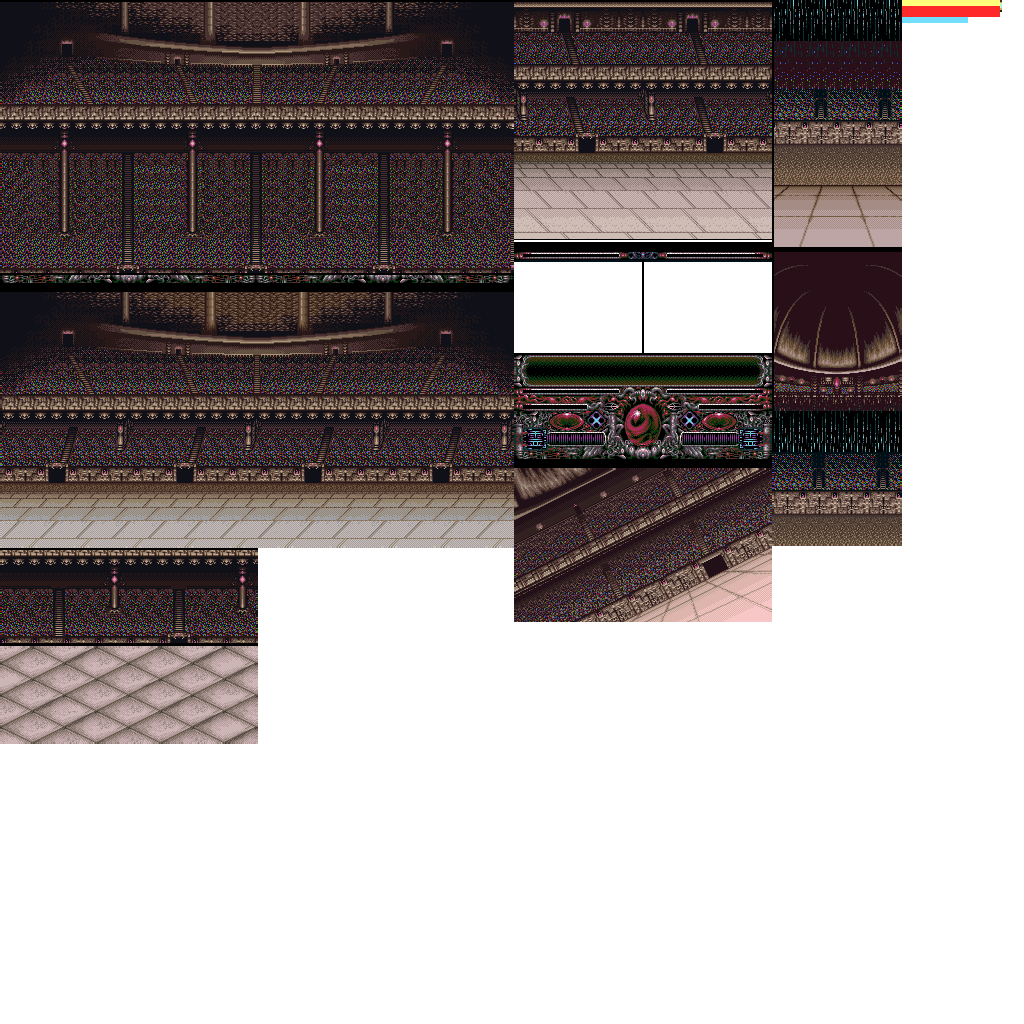
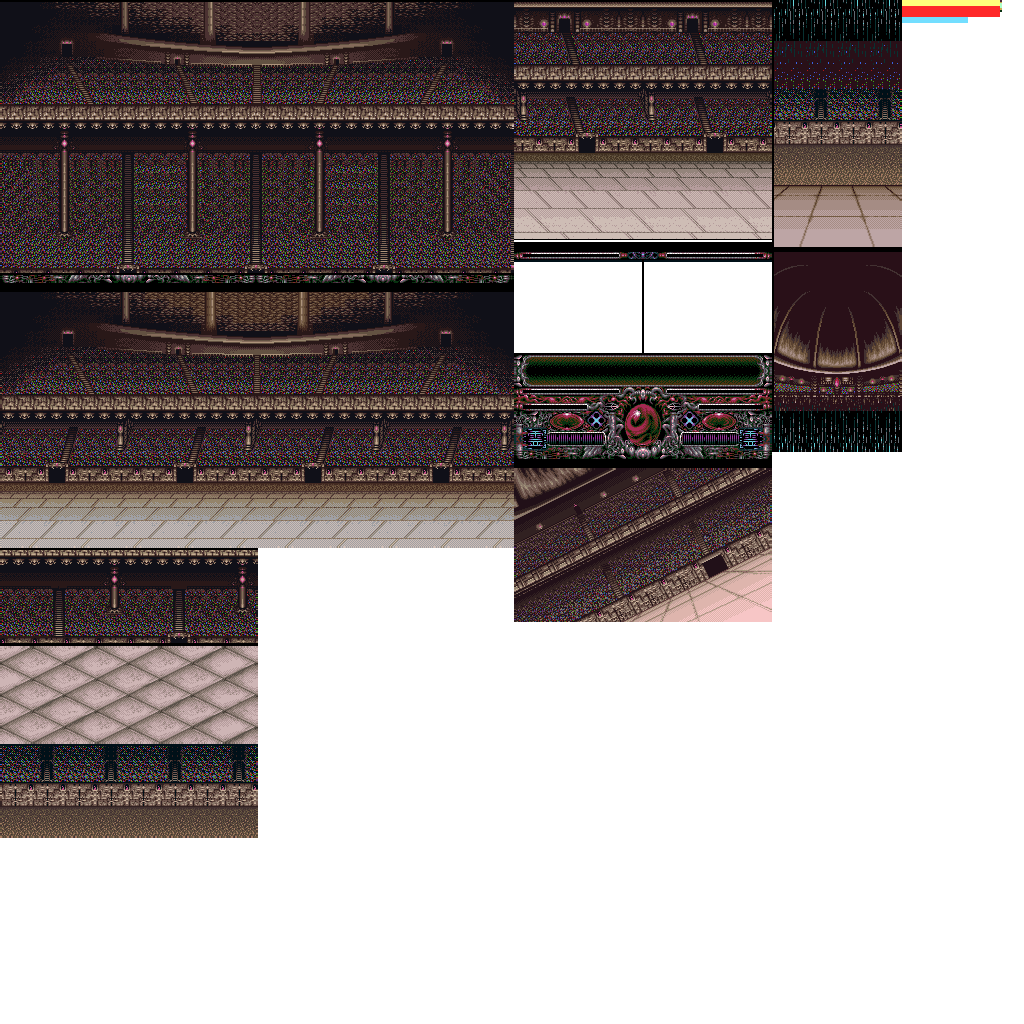
背景のスクロールをUV切り出しで対応

Changed region(s): [[0.0, 0.7188, 0.25, 0.8438], [0.75, 0.4375, 0.9062, 0.5312]]

diff --git a/Assets/GameAssets/Scripts/ECS/ComponentSystem/Render/BGDrawSystem.cs b/Assets/GameAssets/Scripts/ECS/ComponentSystem/Render/BGDrawSystem.cs
@@ -35,19 +35,20 @@ namespace YYHS
             ToukiMeterJob toukiMeterJob = DoToukiMeterJob(ref inputDeps, toukiMeters, toukiMeterMatrixs);
 
             // var bgScrolls = m_group.ToComponentDataArray<BgScroll>(Allocator.TempJob);
-            var bgScrollsMatrixs = new NativeArray<Matrix4x4>(toukiMeters.Length * 2, Allocator.TempJob);
-            BgScrollJob bgScrollJob = DoBgScrollJob(ref inputDeps, toukiMeters, bgScrollsMatrixs);
+            // var bgScrollsMatrixs = new NativeArray<Matrix4x4>(toukiMeters.Length, Allocator.TempJob);
+            // BgScrollJob bgScrollJob = DoBgScrollJob(ref inputDeps, toukiMeters, bgScrollsMatrixs);
 
             // 描画のためCompleteする
             inputDeps.Complete();
 
-            DrawBgScroll(bgScrollJob);
+            DrawBgScroll(toukiMeters);
             DrawFrame();
             DrawToukiMeter(toukiMeterJob);
 
             // NativeArrayの開放
+            toukiMeters.Dispose();
             toukiMeterMatrixs.Dispose();
-            bgScrollsMatrixs.Dispose();
+            // bgScrollsMatrixs.Dispose();
 
             return inputDeps;
         }
@@ -67,29 +68,46 @@ namespace YYHS
             return toukiMeterJob;
         }
 
-        private BgScrollJob DoBgScrollJob(ref JobHandle inputDeps, NativeArray<ToukiMeter> toukiMeters, NativeArray<Matrix4x4> bgScrollMatrixs)
-        {
-            var bgScrollJob = new BgScrollJob()
-            {
-                toukiMeters = toukiMeters,
-                bgScrollMatrixs = bgScrollMatrixs,
-                q = m_quaternion,
-                BgScrollWidth = Define.Instance.DrawPos.BgScrollWidth,
-                BgScrollRangeFactor = Define.Instance.DrawPos.BgScrollRangeFactor,
-                BgScrollX = -(Define.Instance.DrawPos.BgScrollWidth / 2),
-                BgScrollY = Define.Instance.DrawPos.BgScrollY,
-            };
-            inputDeps = bgScrollJob.Schedule(inputDeps);
-            m_group.AddDependency(inputDeps);
-            return bgScrollJob;
-        }
+        // private BgScrollJob DoBgScrollJob(ref JobHandle inputDeps, NativeArray<ToukiMeter> toukiMeters, NativeArray<Matrix4x4> bgScrollMatrixs)
+        // {
+        //     var bgScrollJob = new BgScrollJob()
+        //     {
+        //         toukiMeters = toukiMeters,
+        //         bgScrollMatrixs = bgScrollMatrixs,
+        //         q = m_quaternion,
+        //         BgScrollWidth = Define.Instance.DrawPos.BgScrollWidth,
+        //         BgScrollRangeFactor = Define.Instance.DrawPos.BgScrollRangeFactor,
+        //         BgScrollX = -Define.Instance.DrawPos.BgScrollX,
+        //         BgScrollY = Define.Instance.DrawPos.BgScrollY,
+        //     };
+        //     inputDeps = bgScrollJob.Schedule(inputDeps);
+        //     m_group.AddDependency(inputDeps);
+        //     return bgScrollJob;
+        // }
 
-        private void DrawBgScroll(BgScrollJob bgScrollJob)
+        private void DrawBgScroll(NativeArray<ToukiMeter> toukiMeters)
         {
-            for (int i = 0; i < bgScrollJob.bgScrollMatrixs.Length; i++)
+            for (int i = 0; i < toukiMeters.Length; i++)
             {
-                Graphics.DrawMesh(Shared.bgFrameMeshMat.meshs["bg00"],
-                    bgScrollJob.bgScrollMatrixs[i],
+                Matrix4x4 bgScrollMatrixs = Matrix4x4.TRS(new Vector3(-Define.Instance.DrawPos.BgScrollX,
+                        Define.Instance.DrawPos.BgScrollY, 0),
+                    m_quaternion, new Vector3(0.5f, 1, 1));
+
+                Mesh baseMesh = Shared.bgFrameMeshMat.meshs["bg00"];
+                Mesh mesh = new Mesh()
+                {
+                    vertices = baseMesh.vertices,
+                    uv = new Vector2[]
+                    {
+                    new Vector2(toukiMeters[i].textureUl, baseMesh.uv[0].y),
+                    new Vector2(toukiMeters[i].textureUr, baseMesh.uv[1].y),
+                    new Vector2(toukiMeters[i].textureUl, baseMesh.uv[2].y),
+                    new Vector2(toukiMeters[i].textureUr, baseMesh.uv[3].y),
+                    },
+                    triangles = baseMesh.triangles,
+                };
+                Graphics.DrawMesh(mesh,
+                    bgScrollMatrixs,
                     Shared.bgFrameMeshMat.material, 0);
             }
         }
@@ -139,44 +157,44 @@ namespace YYHS
             }
         }
 
-        [BurstCompileAttribute]
-        struct BgScrollJob : IJob
-        {
-            [ReadOnly]
-            [DeallocateOnJobCompletion]
-            public NativeArray<ToukiMeter> toukiMeters;
-            [ReadOnly]
-            public Quaternion q;
-            [ReadOnly]
-            public int BgScrollWidth;
-            [ReadOnly]
-            public int BgScrollRangeFactor;
-            [ReadOnly]
-            public int BgScrollX;
-            [ReadOnly]
-            public int BgScrollY;
-            public NativeArray<Matrix4x4> bgScrollMatrixs;
+        // [BurstCompileAttribute]
+        // struct BgScrollJob : IJob
+        // {
+        //     [ReadOnly]
+        //     // [DeallocateOnJobCompletion]
+        //     public NativeArray<ToukiMeter> toukiMeters;
+        //     [ReadOnly]
+        //     public Quaternion q;
+        //     [ReadOnly]
+        //     public int BgScrollWidth;
+        //     [ReadOnly]
+        //     public int BgScrollRangeFactor;
+        //     [ReadOnly]
+        //     public int BgScrollX;
+        //     [ReadOnly]
+        //     public int BgScrollY;
+        //     public NativeArray<Matrix4x4> bgScrollMatrixs;
 
-            public void Execute()
-            {
-                for (int i = 0; i < toukiMeters.Length; i++)
-                {
-                    var index = i * 2;
-                    var posX = BgScrollX + (toukiMeters[i].bgScroll >> BgScrollRangeFactor);
-                    var posX2 = (posX - BgScrollWidth);
+        //     public void Execute()
+        //     {
+        //         for (int i = 0; i < toukiMeters.Length; i++)
+        //         {
+        //             // var index = i * 2;
+        //             var posX = BgScrollX + (toukiMeters[i].bgScroll >> BgScrollRangeFactor);
+        //             var posX2 = (posX - BgScrollWidth);
 
-                    Matrix4x4 tmpMatrix = Matrix4x4.TRS(new Vector3(posX, BgScrollY, 0),
-                        q, Vector3.one);
+        //             Matrix4x4 tmpMatrix = Matrix4x4.TRS(new Vector3(posX, BgScrollY, 0),
+        //                 q, Vector3.one);
 
-                    bgScrollMatrixs[index] = tmpMatrix;
+        //             bgScrollMatrixs[i] = tmpMatrix;
 
-                    Matrix4x4 tmpMatrix2 = Matrix4x4.TRS(new Vector3(posX2, BgScrollY, 0),
-                        q, Vector3.one);
+        //             // Matrix4x4 tmpMatrix2 = Matrix4x4.TRS(new Vector3(posX2, BgScrollY, 0),
+        //             //     q, Vector3.one);
 
-                    bgScrollMatrixs[index + 1] = tmpMatrix2;
-                }
-            }
-        }
+        //             // bgScrollMatrixs[index + 1] = tmpMatrix2;
+        //         }
+        //     }
+        // }
 
     }
 }

diff --git a/Assets/GameAssets/Scripts/ECS/ComponentSystem/Count/ToukiMeterCountJobSystem.cs b/Assets/GameAssets/Scripts/ECS/ComponentSystem/Count/ToukiMeterCountJobSystem.cs
@@ -38,11 +38,15 @@ namespace YYHS
 
 		private JobHandle DoCountToukiJob(ref JobHandle inputDeps, NativeArray<ToukiMeter> toukiMeters)
 		{
+			Vector2[] uv = Shared.bgFrameMeshMat.meshs["bg00"].uv;
 			inputDeps = new CountToukiJob()
 			{
 				BgScrollRange = Define.Instance.DrawPos.BgScrollWidth << Define.Instance.DrawPos.BgScrollRangeFactor,
 					toukiMeters = toukiMeters,
+					spriteUl = uv[0].x,
+					spriteUr = uv[1].x,
 			}.Schedule(inputDeps);
+
 			m_group.AddDependency(inputDeps);
 			m_group.CopyFromComponentDataArray(toukiMeters, out JobHandle jobHandle);
 			return jobHandle;
@@ -61,10 +65,16 @@ namespace YYHS
 		{
 			[ReadOnly]
 			public int BgScrollRange;
+			[ReadOnly]
+			public float spriteUl;
+			[ReadOnly]
+			public float spriteUr;
 			public NativeArray<ToukiMeter> toukiMeters;
 
 			public void Execute()
 			{
+				float width = (spriteUr - spriteUl) / 2;
+
 				for (int i = 0; i < toukiMeters.Length; i++)
 				{
 					var toukiMeter = toukiMeters[i];
@@ -98,6 +108,9 @@ namespace YYHS
 							break;
 					}
 
+					float u = (float)toukiMeter.bgScroll / (float)BgScrollRange;
+					toukiMeter.textureUl = spriteUl + (u * width);
+					toukiMeter.textureUr = toukiMeter.textureUl + width;
 					toukiMeters[i] = toukiMeter;
 				}
 			}

diff --git a/Assets/GameAssets/Scripts/ECS/ComponentSystem/Render/ToukiMeterDebubSystem.cs b/Assets/GameAssets/Scripts/ECS/ComponentSystem/Render/ToukiMeterDebubSystem.cs
@@ -30,7 +30,9 @@ namespace YYHS
 				// Debug.Log(toukiMeter.value);
 				// Debug.Log(toukiMeter.muki);
 				// DebugPanel.Log("ToukiMeter.value", toukiMeter.value.ToString());
-				DebugPanel.Log("ToukiMeter.bgScroll", toukiMeter.bgScroll.ToString());
+				DebugPanel.Log("ToukiMeter.bgScroll" + i.ToString(), toukiMeter.bgScroll.ToString());
+				DebugPanel.Log("ToukiMeter.textureUl" + i.ToString(), toukiMeter.textureUl.ToString());
+				DebugPanel.Log("ToukiMeter.textureUr" + i.ToString(), toukiMeter.textureUr.ToString());
 				toukiMeters[i] = toukiMeter;
 			}
 		}

diff --git a/Assets/GameAssets/Scripts/ECS/ISharedComponentData/MeshMatList.cs b/Assets/GameAssets/Scripts/ECS/ISharedComponentData/MeshMatList.cs
@@ -38,6 +38,7 @@
 				sprites.Add(list[i].name, sprite);
 
 				var mesh = GenerateQuadMesh(sprite);
+
 				meshs.Add(list[i].name, mesh);
 				if (i == 0)
 				{
@@ -54,6 +55,16 @@
 				new Vector3(sprite.vertices[2].x, 0, sprite.vertices[2].y),
 				new Vector3(sprite.vertices[3].x, 0, sprite.vertices[3].y)
 			};
+
+			// Debug.Log(sprite.name);
+			// foreach (var item in sprite.vertices)
+			// {
+			// 	Debug.Log(item);
+			// }
+			// foreach (var item in sprite.uv)
+			// {
+			// 	Debug.Log(item);
+			// }
 
 			int[] triangles = {
 				sprite.triangles[0],

diff --git a/Assets/GameAssets/Scripts/ScriptableObject/Settings/DrawPosSettings.cs b/Assets/GameAssets/Scripts/ScriptableObject/Settings/DrawPosSettings.cs
@@ -11,6 +11,7 @@ namespace YYHS
     {
         public int BgScrollWidth;
         public int BgScrollRangeFactor;
+        public int BgScrollX;
         public int BgScrollY;
         public int ToukiMeterX;
         public int ToukiMeterY;

diff --git a/Assets/GameAssets/Scripts/ECS/IComponentData/Chara/ToukiMeter.cs b/Assets/GameAssets/Scripts/ECS/IComponentData/Chara/ToukiMeter.cs
@@ -8,5 +8,7 @@ namespace YYHS
 		public int value;
 		public EnumToukiMaterState state;
 		public int bgScroll;
+		public float textureUl;
+		public float textureUr;
 	}
 }
